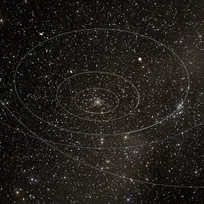
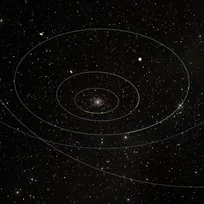
feat(views): hold the starfield down in the Solar System view
Exposure trim to 0.3 (1.0 is the shader baseline). At this framing the
background is far brighter than the thin conics drawn over it, so the orbit
rings read through the sky rather than against it. Card recaptured.

diff --git a/src/data/views/solarSystem.ts b/src/data/views/solarSystem.ts
@@ -5,8 +5,16 @@
  */
 
 import { initialState as orbitTrailsInitialState } from '../../layers/body/state/orbitTrails/initialState';
+import { initialState as starCatalogsInitialState } from '../../layers/starCatalog/state/starCatalogs/initialState';
 import { SCALE_UNITS } from '../scaleUnits';
 import type { View } from '../../@types/views/View';
+
+/**
+ * Exposure trim on the starfield (1.0 is the shader baseline). Held down so
+ * the orbit rings read against the sky rather than through it — at this
+ * framing the background is far brighter than the thin conics drawn over it.
+ */
+const STARFIELD_BRIGHTNESS = 0.3;
 
 /**
  * Far enough out that Neptune's 30 AU orbit clears the frame edge. The pose is
@@ -28,7 +36,10 @@ export const solarSystem: View = {
   label: 'Solar System',
   // The trails are the view: a viewer who switched them off in the panel still
   // gets them here, and `runTakeover`'s snapshot hands their choice back on exit.
-  settings: { orbitTrails: { ...orbitTrailsInitialState, enabled: true } },
+  settings: {
+    orbitTrails: { ...orbitTrailsInitialState, enabled: true },
+    starCatalogs: { ...starCatalogsInitialState, brightness: STARFIELD_BRIGHTNESS },
+  },
   pose: {
     target: [0, 0, 0],
     yaw: 0,
